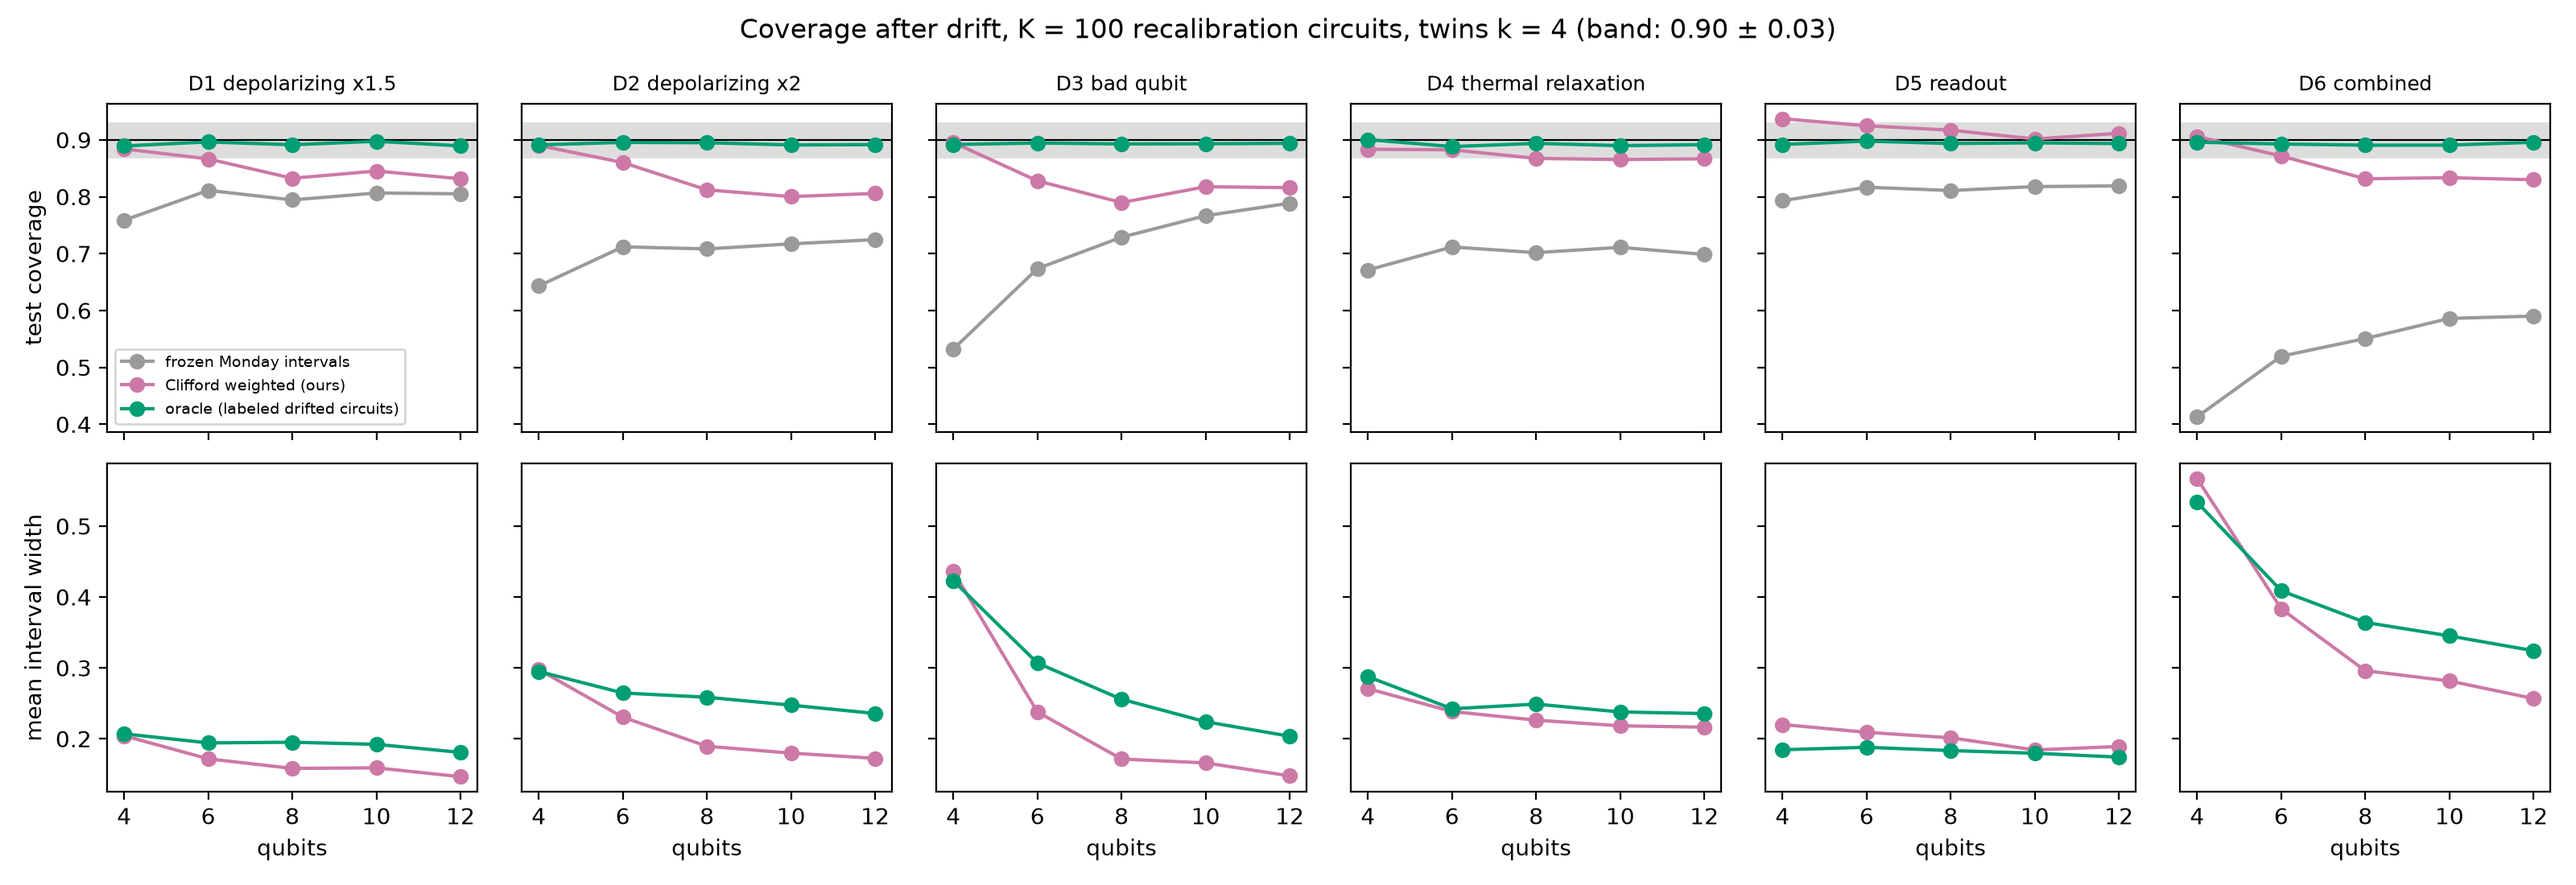
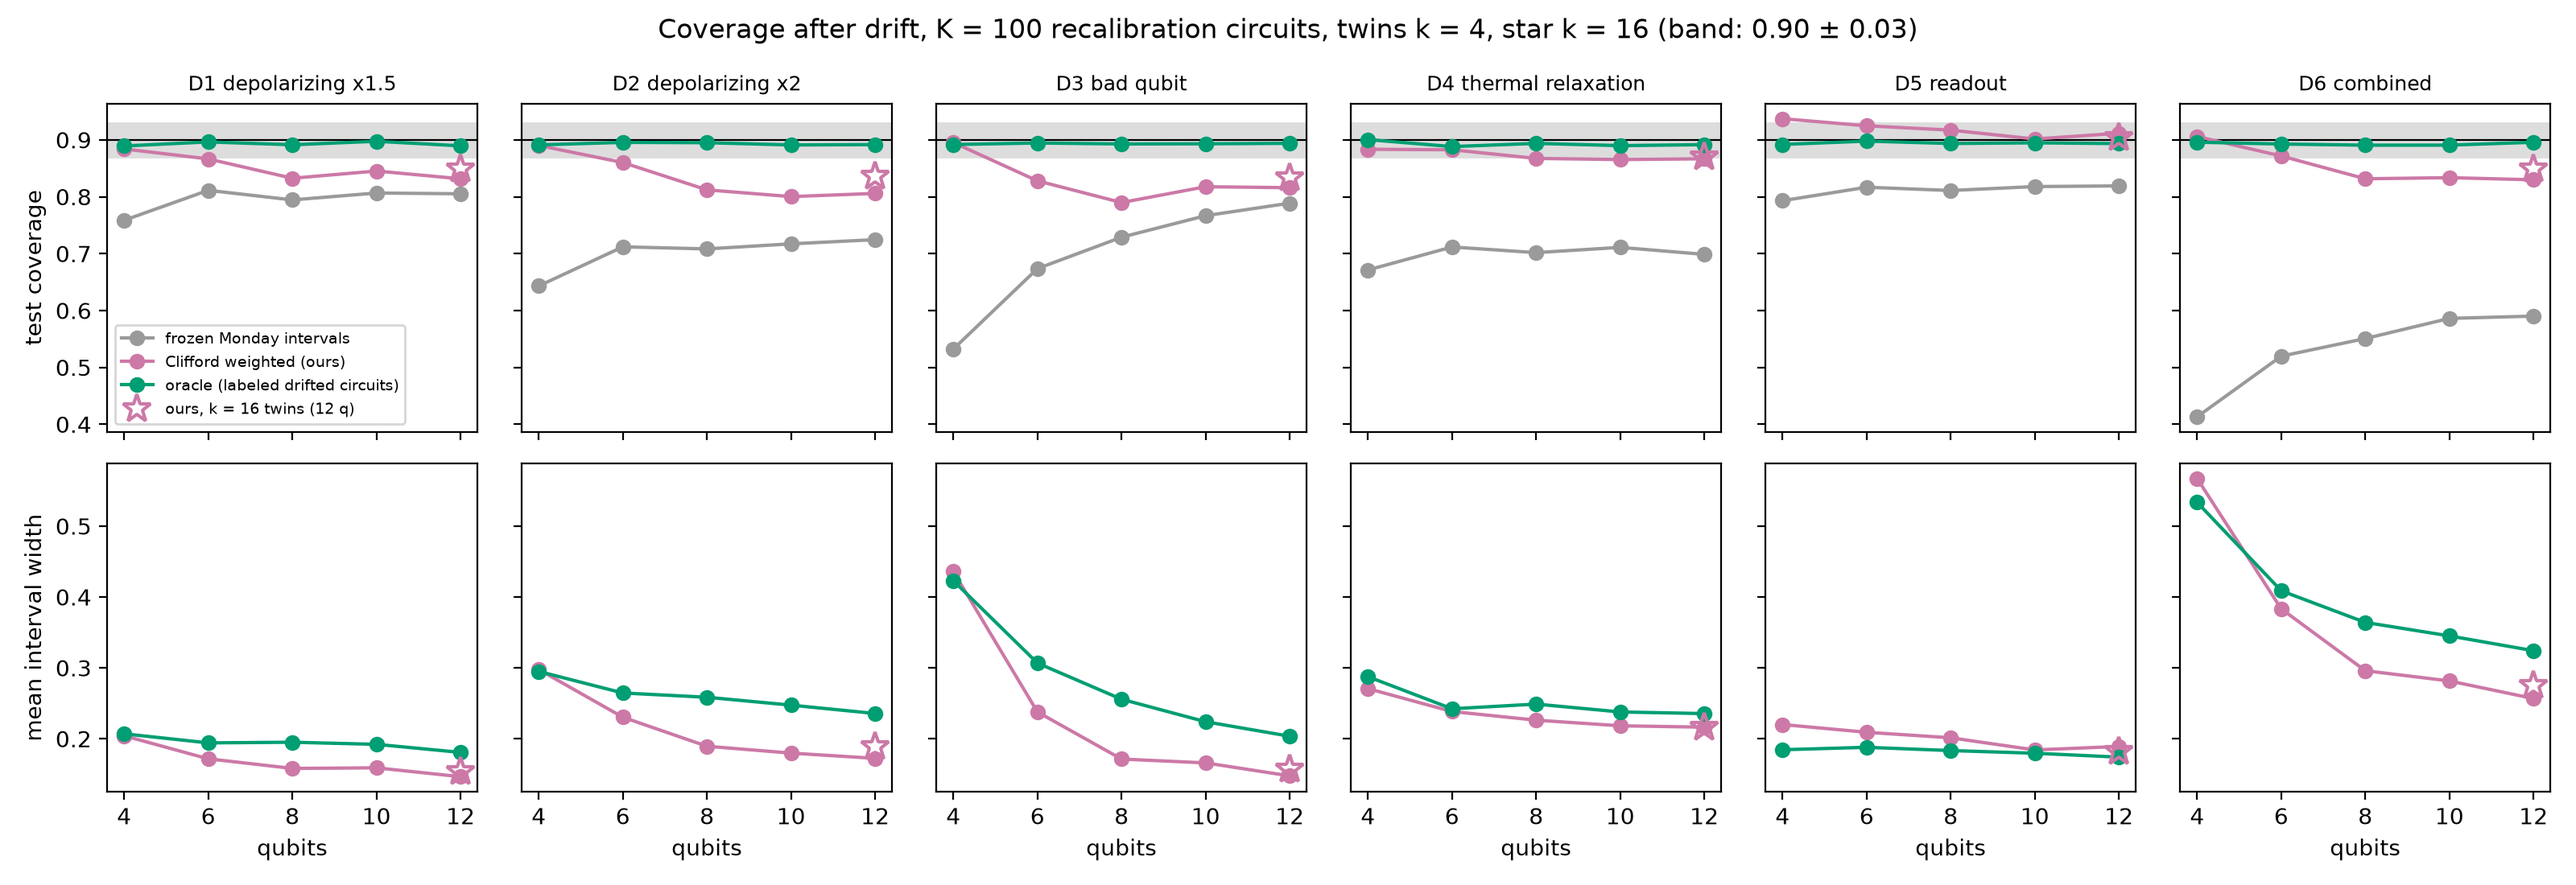
results: add the k = 16 twins point to the scaling figure

diff --git a/scripts/plot_scaling.py b/scripts/plot_scaling.py
@@ -1,4 +1,7 @@
-"""Scaling figure (Amendment 4): coverage and width against qubit count at K = 100, k = 4, per drift scenario."""
+"""Scaling figure (Amendment 4): coverage and width against qubit count at K = 100, k = 4, per drift scenario.
+
+Amendment 5 fix 2 adds one point: R1W with k = 16 twins at 12 qubits (hollow star).
+"""
 
 import json
 from pathlib import Path
@@ -8,6 +11,7 @@ import matplotlib.pyplot as plt
 from trustqem.experiments.report import METHOD_STYLE
 
 QUBITS, K, KEEP = (4, 6, 8, 10, 12), 100, 4
+RICH_KEEP, RICH_RESULTS = 16, Path("results/twins_k16/scale_q12/summary.json")
 SCENARIOS = ("D1_depolarizing_x1.5", "D2_depolarizing_x2", "D3_bad_qubit", "D4_thermal_relaxation", "D5_readout",
              "D6_combined")
 
@@ -22,6 +26,7 @@ def _value(entries, scenario, method, count, keep, field):
 def main(results: Path = Path("results/drift"), out: Path = Path("results/drift/scaling.png")) -> None:
     summaries = {n: json.loads((results / f"scale_q{n}" / "summary.json").read_text())["intervals"] for n in QUBITS}
     fig, axes = plt.subplots(2, len(SCENARIOS), figsize=(16, 5.5), sharex=True, sharey="row")
+    rich = json.loads(RICH_RESULTS.read_text())["intervals"] if RICH_RESULTS.exists() else None
     series = (("R0_frozen", 0, -1), ("R1W_clifford_weighted", K, KEEP), ("R3_oracle", K, -1))
     for column, scenario in enumerate(SCENARIOS):
         top, bottom = axes[0, column], axes[1, column]
@@ -34,13 +39,19 @@ def main(results: Path = Path("results/drift"), out: Path = Path("results/drift/
             if method != "R0_frozen":
                 width = [_value(summaries[n], scenario, method, count, keep, "mean_width") for n in QUBITS]
                 bottom.plot(QUBITS, width, "o-", color=colour)
+        if rich is not None:
+            colour = METHOD_STYLE["R1W_clifford_weighted"][0]
+            for axis, field in ((top, "coverage"), (bottom, "mean_width")):
+                axis.plot([12], [_value(rich, scenario, "R1W_clifford_weighted", K, RICH_KEEP, field)], "*",
+                          markersize=13, markerfacecolor="none", markeredgecolor=colour, markeredgewidth=1.5,
+                          label=f"ours, k = {RICH_KEEP} twins (12 q)" if field == "coverage" else None)
         top.set_title(scenario.replace("_", " "), fontsize=9)
         bottom.set_xlabel("qubits")
         bottom.set_xticks(QUBITS)
     axes[0, 0].set_ylabel("test coverage")
     axes[1, 0].set_ylabel("mean interval width")
     axes[0, 0].legend(fontsize=7, loc="lower left")
-    fig.suptitle(f"Coverage after drift, K = {K} recalibration circuits, twins k = {KEEP} (band: 0.90 ± 0.03)")
+    fig.suptitle(f"Coverage after drift, K = {K} recalibration circuits, twins k = {KEEP}, star k = {RICH_KEEP} (band: 0.90 ± 0.03)")
     fig.tight_layout()
     fig.savefig(out, dpi=200)
     print(out)
